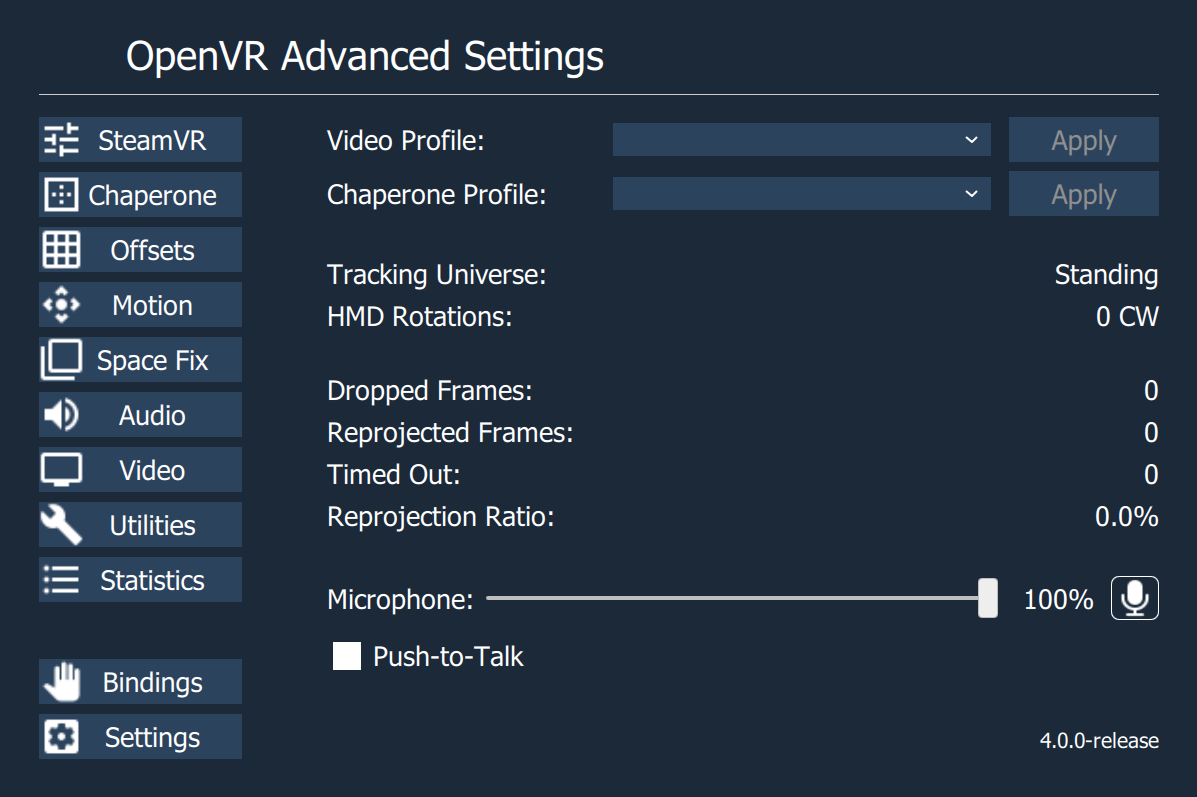
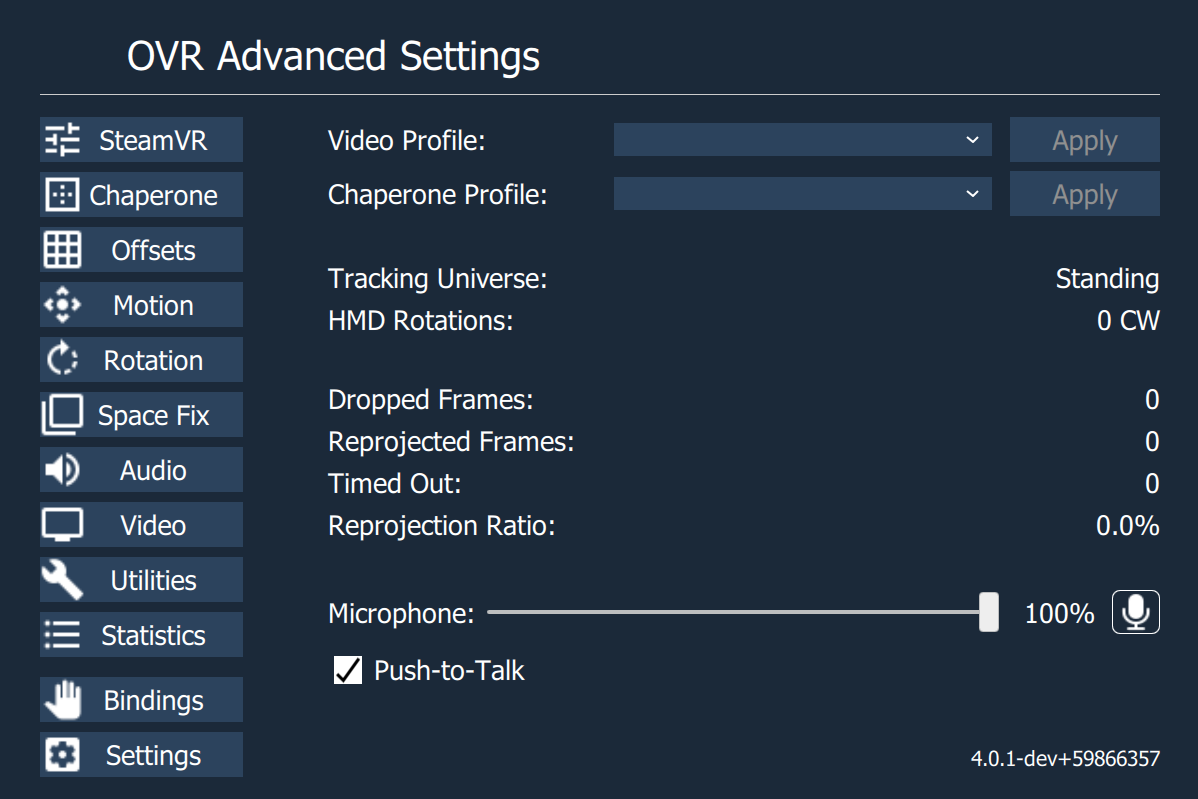
Documentation (#401)
* updated documentation/screenshots, let seated-recenter show in all modes, fixed default value of brigthness

* fixed formatting

* changed PTT to System

* added comma to documentation

diff --git a/src/res/qml/PlayspacePage.qml b/src/res/qml/PlayspacePage.qml
@@ -502,7 +502,7 @@ MyStackViewPage {
                 MyPushButton {
                     id: spaceSeatedRecenter
                     Layout.preferredWidth: 250
-                    visible: false
+                    visible: true
                     text: "Seated Recenter"
                     onClicked: {
                         MoveCenterTabController.sendSeatedRecenter()
@@ -539,7 +539,7 @@ MyStackViewPage {
 
             } else if (MoveCenterTabController.trackingUniverse === 1) {
                 spaceModeText.text = "Standing"
-                spaceSeatedRecenter.visible = false
+                spaceSeatedRecenter.visible = true
                 offsetsGroupBox.visible = true
                 rotationGroupBox.visible = true
                 resetButtonRow.visible = true

diff --git a/src/openvr/ivrinput.h b/src/openvr/ivrinput.h
@@ -50,7 +50,7 @@ namespace action_keys
     constexpr auto xAxisLockToggle = "/actions/misc/in/XAxisLockToggle";
     constexpr auto yAxisLockToggle = "/actions/misc/in/YAxisLockToggle";
     constexpr auto zAxisLockToggle = "/actions/misc/in/ZAxisLockToggle";
-    constexpr auto pushToTalk = "/actions/misc/in/PushToTalk";
+    constexpr auto pushToTalk = "/actions/system/in/PushToTalk";
 
     constexpr auto keyboardOne = "/actions/misc/in/KeyboardOne";
     constexpr auto keyboardTwo = "/actions/misc/in/KeyboardTwo";

diff --git a/src/settings/internal/settings_controller.h b/src/settings/internal/settings_controller.h
@@ -391,7 +391,7 @@ private:
         DoubleSettingValue{ DoubleSetting::VIDEO_brightnessOpacityValue,
                             SettingCategory::Video,
                             QtInfo{ "brightnessOpacityValue" },
-                            0.0 },
+                            1.0 },
         DoubleSettingValue{ DoubleSetting::VIDEO_colorOverlayOpacity,
                             SettingCategory::Video,
                             QtInfo{ "colorOverlayOpacity" },

diff --git a/Readme.md b/Readme.md
@@ -25,11 +25,13 @@ Adds an overlay to the OpenVR dashboard that allows access to advanced settings 
      * [Music](#music)
      * [Motion](#motion)
      * [Misc.](#misc)
+	 * [System.](#system)
      * [Haptics.](#haptics)
   * [Default Bindings](#default-bindings)
      * [Vive Wands](#vive-wands)
      * [Valve Index Controllers (Knuckles)](#valve-index-controllers-knuckles)
      * [WMR](#wmr)
+	 * [Touch](#touch)
      * [Other Controllers](#other-controllers)
   * [SteamVR Input Guide](#steamvr-input-guide)
   * [Command Line Arguments](#command-line-arguments)
@@ -42,6 +44,7 @@ Adds an overlay to the OpenVR dashboard that allows access to advanced settings 
   * [- Chaperone Proximity Warning Settings Page](#--chaperone-proximity-warning-settings-page)
   * [- Space Offset Page](#--space-offset-page)
   * [- Motion Page](#--motion-page)
+  * [- Rotation Page](#--rotation-page)
   * [- Space Fix Page](#--space-fix-page)
   * [- Audio Page](#--audio-page)
   * [- Video Page](#--video-page)
@@ -159,6 +162,7 @@ Override actions will take priority over non-override actions during simultaneou
 | Snap-Turn Right | Binary/Button |  Rotates a set value to the right based on settings in motion tab. |
 | Smooth-Turn Right | Binary/Button | Rotates an amount per frame to the right based on settings in motion tab. |
 | Smooth-Turn Left | Binary/Button | Rotates an amount per frame to the left based on settings in motion tab. |
+| Auto-Turn Toggle | Binary/Button | Toggles the Auto-Turn Feature on/off.
 
 ### Misc.
 
@@ -176,14 +180,22 @@ Actions that don't have a clear category.
 | Keyboard Shortcut Three | Binary/Button | Sends the key sequence defined the the settings file. This has no default sequence. |
 
 
-### Haptics.
+### System.
 
-Actions that cause Vibration.
+Actions That will stay active regardless of the situation.
+
 
 |    Action     |     Type      |  Explanation  |
 | ------------- | ------------- |  ------------ |
 | Add Left Haptic Click | Binary/Button | simulates a "click" with controller haptics. (left hand)
 | Add Right Haptic Click | Binary/Button | simulates a "click" with controller haptics. (right hand)
+
+### Haptics.
+
+These Actions are Hidden, They are bound by default. They allow the application to use the haptics and proximity sensor in HMD's.
+
+|    Action     |     Type      |  Explanation  |
+| ------------- | ------------- |  ------------ |
 | Haptics Left | Vibration | Handle for haptic events on the Left Controller. **Do not "bind" this action**|
 | Haptics Right | Vibration | Handle for haptic events on the Right Controller. **Do not "bind" this action**|
 | Proximity Sensor | Binary/Button | Connects Automatically to your HMD's proximity sensor. **Do not "bind" this action**, it will cause un-predictable behavior. |
@@ -219,6 +231,15 @@ Actions that cause Vibration.
   - **Single Click**: Swap Active Space Drag (override) (respective hand)
 - TrackPad (right hand)
   - **D-pad Down click**: Push-to-Talk
+- Haptics bound
+
+### Touch
+- B/Y Button (respective hands)
+  - **Single Click**: Space Turn (respective hand)
+  - **Double Click**: Space Drag (override) (respective hand)
+  - **Single Click**: Swap Active Space Drag (override) (respective hand)
+- Trigger (left hand)
+  - **Click**: Push-to-Talk
 - Haptics bound
 
 ### Other Controllers
@@ -341,10 +362,6 @@ Allows users to temporarily move and rotate the center of the playspace. This al
   - **Left/Right Hand**: Toggles functionality (must be active in addition to binding via input system to work.)
   - **Comfort Mode**: Limits the rate at which your movement updates, reducing smoothness so that perceived motion starts to feel more like mini-teleports. Higher values reduce smoothness more.
   - **Force Bounds**: Forces the display of the chaperone bounds during Space Drag.
-- **Space Turn**: Allows rotating your playspace by rotating your controller. Binds must be set via SteamVR Input system.
-  - **Left/Right Hand**: Toggles functionality (must be active in addition to binding via input system to work.)
-  - **Comfort Mode**: Limits the rate at which your rotation updates, reducing smoothness so that perceived rotation starts to feel more like mini-snap-turns. Higher values reduce smoothness more.
-  - **Force Bounds**: Forces the display of the chaperone bounds during Space Turn.
 - **Height Toggle**: Toggle between zero and an offset for gravity floor height. If gravity is inactive the user is also moved to this offset. (Example: allows for quick switching between a seated and standing height.) Can be bound via SteamVr Input System.
   - **On**: Current toggle state, Binds directly modify this.
   - **Height Offset**: The amount of the offset (+ is down.)
@@ -352,10 +369,37 @@ Allows users to temporarily move and rotate the center of the playspace. This al
 - **Gravity Settings**: Provides a gravity and momentum simulation to dynamically move your space offset.
   - **On**: Current toggle state, Binds directly modify this.
   - **Gravity Strength**: Gravity simulation's downward acceleration in meters per second squared. Planet buttons provide quick settings for well known gravity strengths. Values can also be typed in directly.
+  - **Friction**: Slows down motion over time.
   - **Save Momentum**: whether your momentum is saved between on/off toggles of gravity.
   - **fling Strength**: adjusts the strength at which you "throw" yourself with space drag feature.
+
+
+## - Rotation Page
+
+<img src="docs/screenshots/RotationPage.png" width="600" alt="Rotation Page">
+
+- **Auto Turn**: Automatically rotates your playspace when you get near a wall, by rotating the direction you're looking to be inside your playspace, parallel to a wall.
+  - **Toggle On/Off**: current state, bind directly modifies this.
+  - **Activation Distance**: How far from the wall before Autoturn activates.
+  - **DeActivation Distance**:  The minimum distance (activation + deactivation) you must be from the wall before autoturn will activate again.
+  - **Use Corner Angle**: When already against a wall and reaching a corner, turn the angle of that corner rather than the angle of your headset to the wall (reccomended)
+  - **Use Smooth Turn**: Toggles between a smooth turn and a snap turn.
+  - **Turn Speed**: How fast you rotate in Degrees per second.
+  - **Detangle Angle**: Settings attempting to keep your cord untangled while using the Auto-Turn feature.
+    - **Min Rotations(deg)**: The amount of rotation before Auto-Turn starts to try and un-tangle your cord.
+    - **Max Wall Angle(deg)**: When the angle of your headset to the wall is less than Max Wall Angle, it will turn you whichever way will start to untangle your cord. Otherwise it will turn you whichever way is closest. Set to '0' if you have a cordless setup 
+- **Redirected Walking**: Adds rotation as you walk to turn you away from the nearest wall you're moving towards. At 'Imperceptable' and 'Slight' angles should be subtle enough to feel as if you're walking in a straight line, effectively making your playspace feel bigger. 
+  - **On**: Toggles Feature on/off
+  - **Radius**: Radius in meters of how big a circle would be drawn to keep you walking in a straight line inside a game.
+
+
+- **Space Turn**: Allows rotating your playspace by rotating your controller. Binds must be set via SteamVR Input system.
+  - **Left/Right Hand**: Toggles functionality (must be active in addition to binding via input system to work.)
+  - **Comfort Mode**: Limits the rate at which your rotation updates, reducing smoothness so that perceived rotation starts to feel more like mini-snap-turns. Higher values reduce smoothness more.
+  - **Force Bounds**: Forces the display of the chaperone bounds during Space Turn.
 - **Snap Turn Angle**: Allows snap (instant) turning by the specified angle. Can type in values or use the preset buttons for angles that neatly divide 360 degrees. Must bind actions via SteamVR Input interface.
 - **Smooth Turn Rate**: Allows smooth turning by a percentage of a degree per frame. (i.e. 100% at 90fps is 90 degress/sec or 15 RPM)
+
 
 ## - Space Fix Page
 
@@ -393,7 +437,7 @@ Allows users to temporarily move and rotate the center of the playspace. This al
 - **Color Adjustment**: Allows Adjusting of the Color of your display.
   - **<Color>**: Adjusts the Gain to adjust color. (This works for Valve Index, Vive, and Vive Pro) If your headset does not support gain adjustment please see **Use Overlay For Color**.
 - **SuperSampling**: Adjusts application super sampling values (requires refresh of dashboard, and/or restart of SteamVR/OpenVR).
- - **Toggle Override**: allows user configureable amount different than recommended value.
+  - **Toggle Override**: allows user configureable amount different than recommended value.
 - **Video Profiles**: allows Users to save their settings and apply quickly via a drop down menu.
 - **Misc**:
   - **Motion Smoothing**: Enables/Disables Motion Smoothing.
